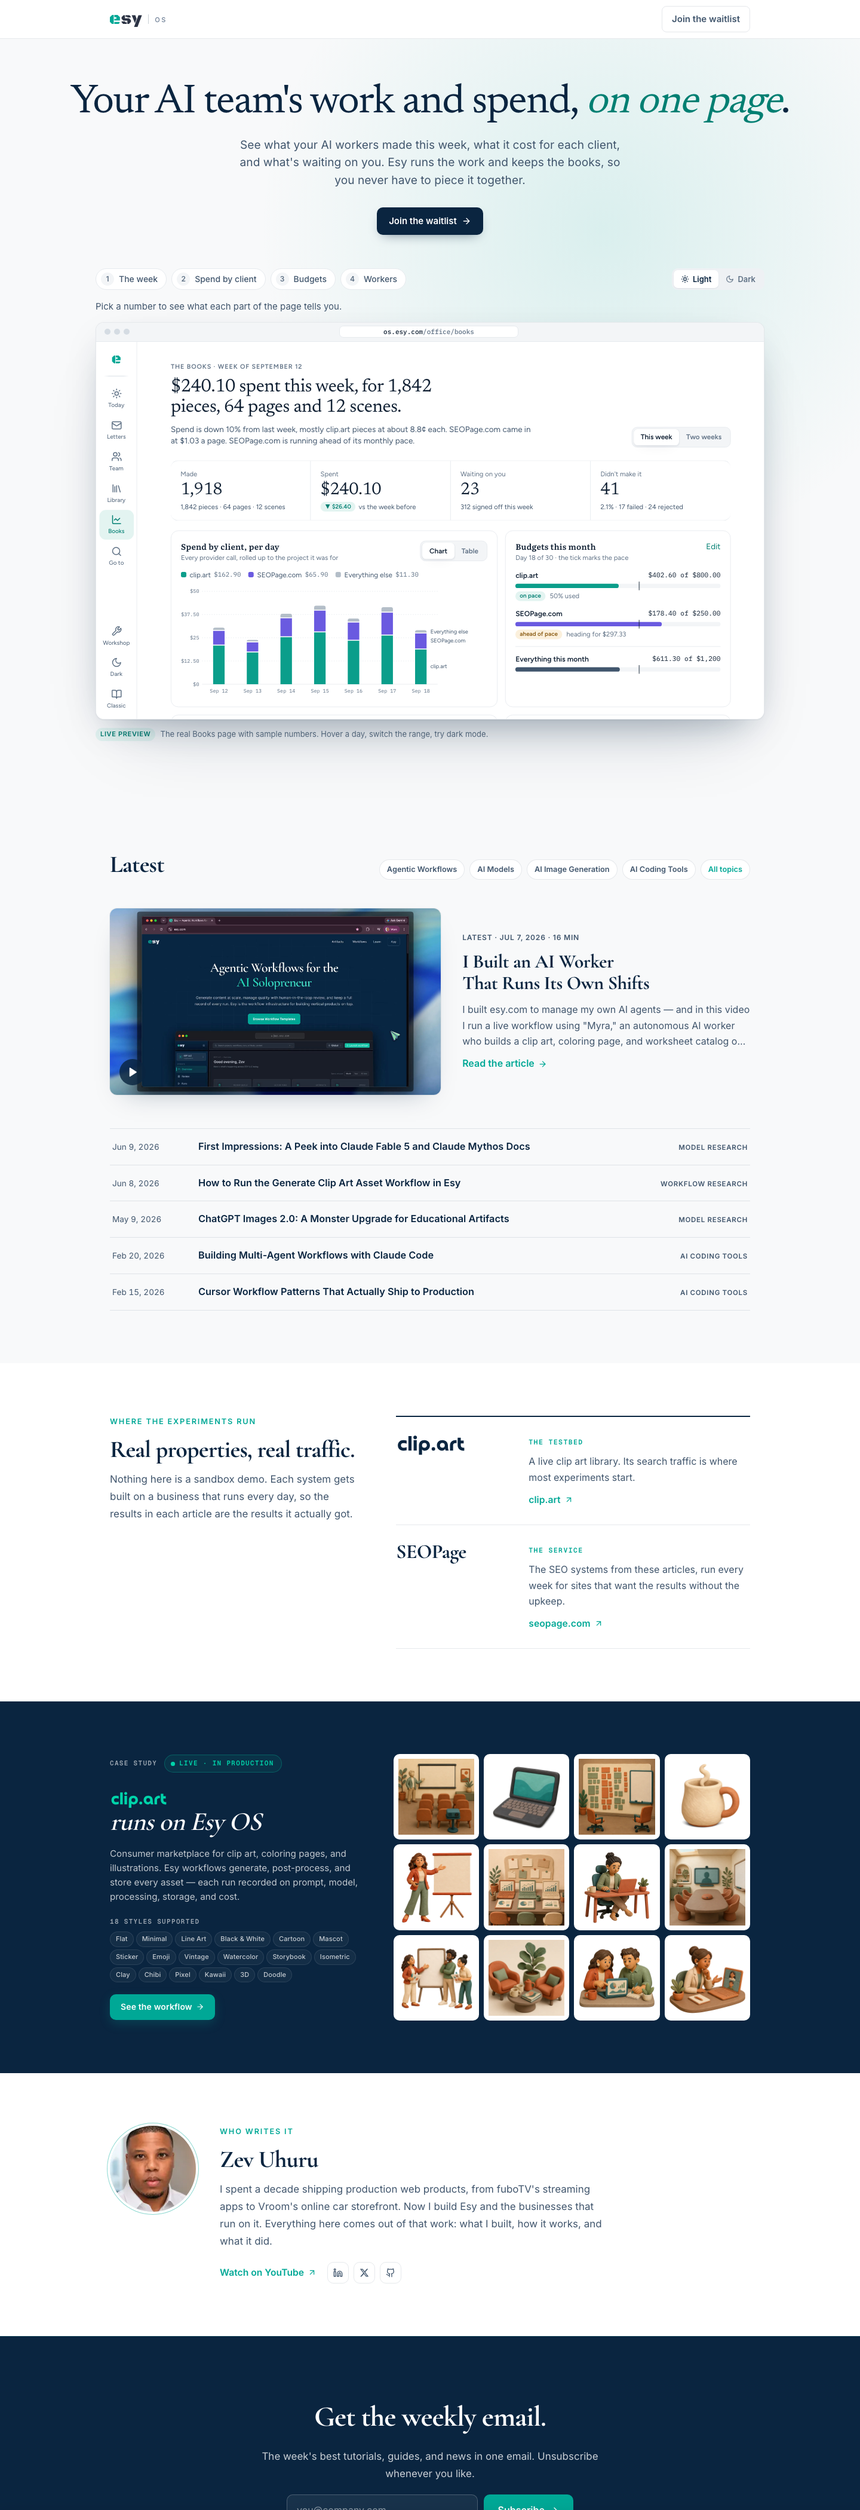
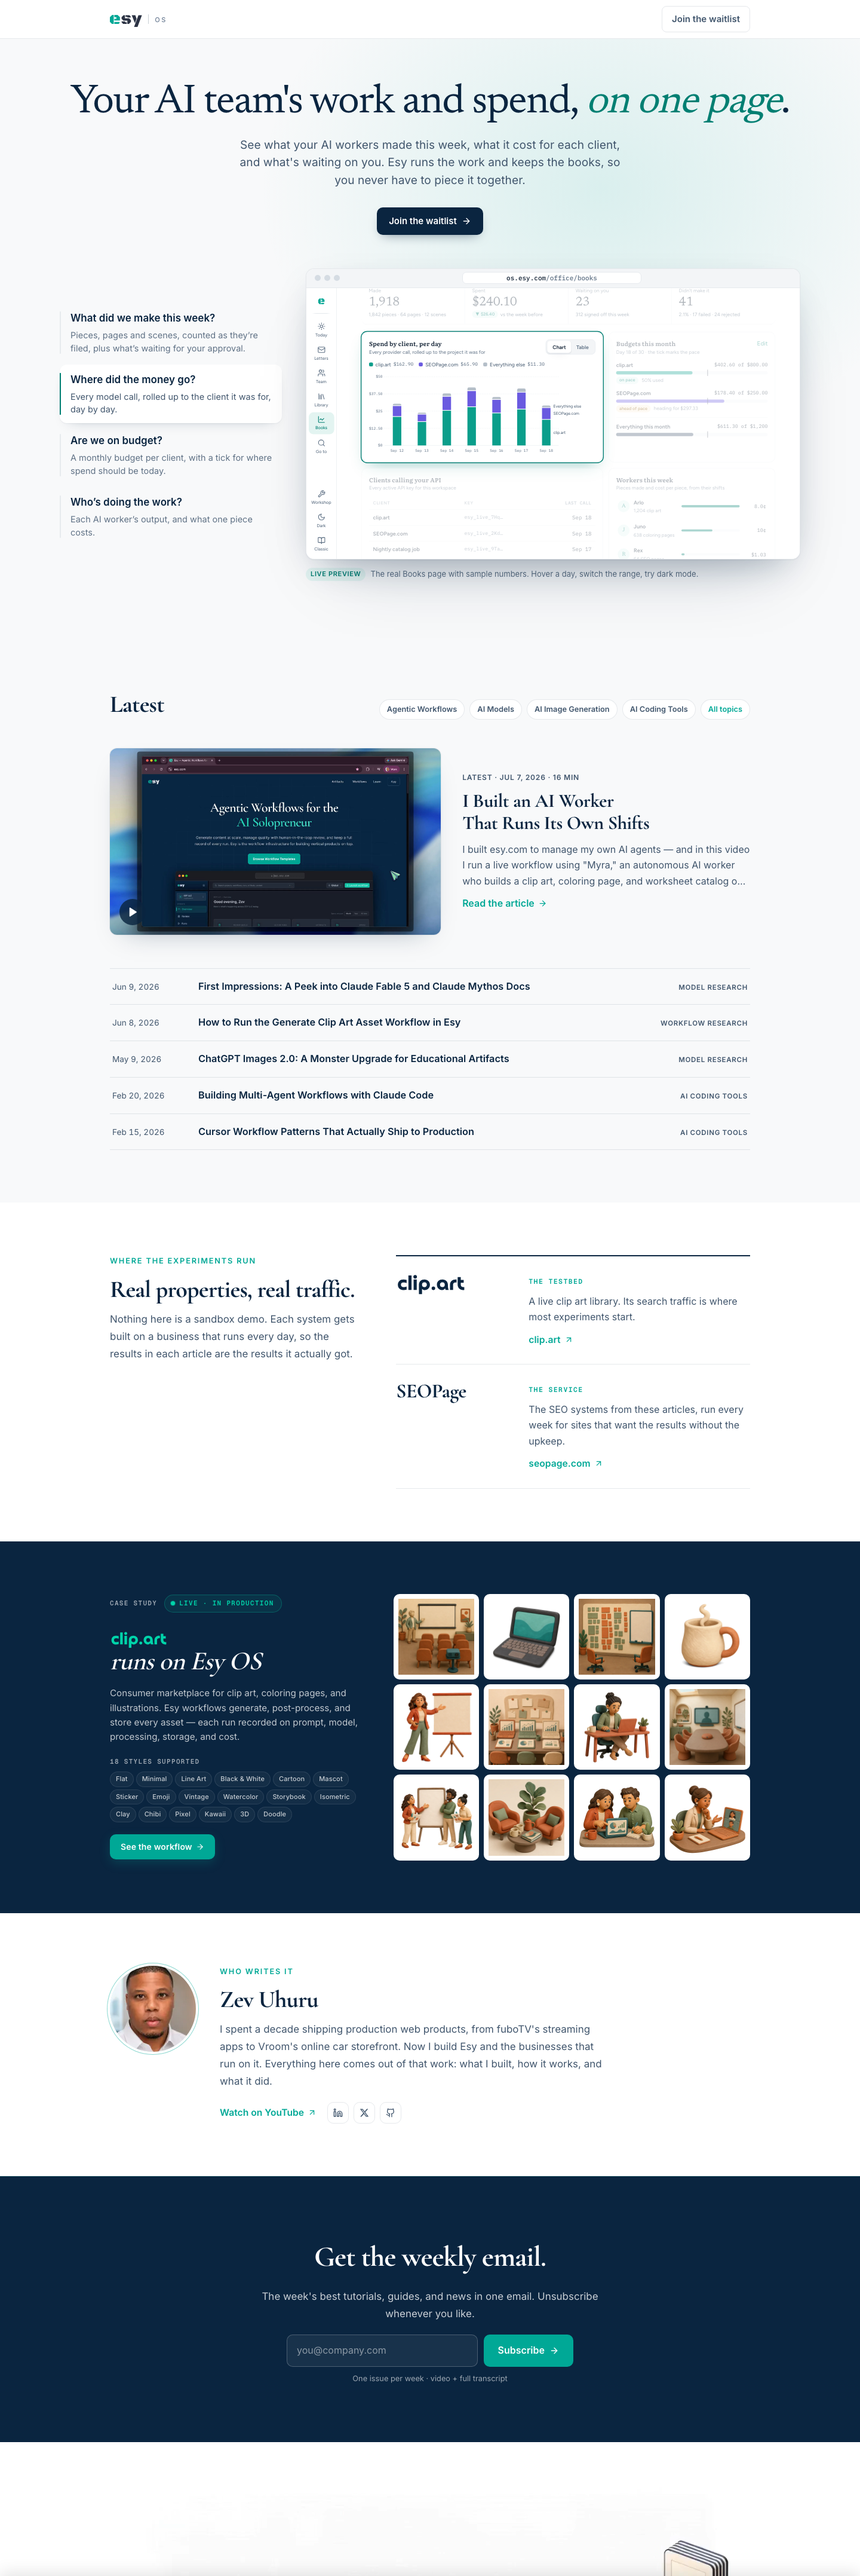
feat: hero E (Stage Tour) goes live on the homepage
Swaps B for E on /, marks E live in the prototypes registry, and refreshes
the prototypes README and screenshots to match.

diff --git a/src/app/page.js b/src/app/page.js
@@ -1,10 +1,10 @@
 import NewsletterHomePage from "../components/NewsletterHome/NewsletterHomePage";
-import { HeroStage } from "../components/HomeHero";
+import { HeroStageTour } from "../components/HomeHero";
 
-// The homepage sells Esy OS (2026-09-18): hero B · Stage, a working copy of
-// the office's Books page under a plain promise. The other directions (Split,
-// Tour) are components in src/components/HomeHero and stay clickable at
-// /prototypes/.
+// The homepage sells Esy OS (2026-09-18): hero E · Stage Tour, B's centred
+// promise over C's questions, each lighting its answer in a working copy of
+// the office's Books page. The other directions are components in
+// src/components/HomeHero and stay clickable at /prototypes/.
 //
 // Earlier homepages:
 // - The Marketing Engineer front page (2026-09-13 → 09-18) now lives at
@@ -55,5 +55,5 @@ export const metadata = {
 export const revalidate = 3600;
 
 export default function HomePage() {
-  return <NewsletterHomePage hero={<HeroStage />} />;
+  return <NewsletterHomePage hero={<HeroStageTour />} />;
 }

diff --git a/src/components/HomeHero/HeroStage.tsx b/src/components/HomeHero/HeroStage.tsx
@@ -1,6 +1,7 @@
 'use client';
 
-/* Hero B · Stage — the live homepage hero (2026-09-18).
+/* Hero B · Stage — briefly the live homepage hero (2026-09-18), before
+ * E · Stage Tour replaced it.
  *
  * Centred promise over a full-width Books window. Numbered chips light the
  * part of the page they name and say, in one line, what it tells you; a

diff --git a/docs/prototypes/README.md b/docs/prototypes/README.md
@@ -2,7 +2,7 @@
 
 Clickable directions we compare by using them, not by looking at mockups. They live at **esy.com/prototypes/** (noindex, kept out of the sitemap) and stay there after a pick, so the next prototype starts from a working example.
 
-**The reference build is the homepage hero (2026-09-18):** three directions for selling Esy OS, each built around a working copy of the office's Books page. Hero B · Stage shipped as the homepage. If you're building a new prototype, read that one first.
+**The reference build is the homepage hero (2026-09-18):** three directions for selling Esy OS (A · Split, B · Stage, C · Tour), each built around a working copy of the office's Books page. Then came a second round that merged the parts Zev liked: D · Split Tour (A's headline, C's flow) and E · Stage Tour (B's centred top, C's side-by-side flow under it). **E shipped as the homepage.** If you're building a new prototype, read that one first.
 
 ## The pattern
 
@@ -14,6 +14,7 @@ Clickable directions we compare by using them, not by looking at mockups. They l
 4. **Make it interactive in small ways.** Keep the product's own controls working: toggles, hover tooltips, theme switch. Anything outside the prototype answers with a one-line note instead of doing nothing. Expose a small set of hooks for the page around it, e.g. `focus` (light one part and dim the rest, scrolling it into view) and `onInteract` (stop an autoplay).
 5. **Write several directions, each as its own component.** Each direction is its own component file with shared pieces factored out. They all use the same preview, so the comparison is about layout and copy, not about which one got the better screenshot.
    - Reference: `src/components/HomeHero/`, with `HeroSplit.tsx`, `HeroStage.tsx`, `HeroTour.tsx` and `shared.tsx`.
+   - **Expect a merge round.** The pick is often "this part of A with that part of C". Keep each direction's moving parts as shared pieces (the Tour's questions, timer and step list live in `tour.tsx`) so a merge is a new small component, not a copy. `HeroSplitTour.tsx` and `HeroStageTour.tsx` are the merges.
 6. **Copy says what the product does, in the customer's words.** No riddles, and no engine vocabulary (workflow, run, gate, provider). Each hero answers: what is it, what does it show you, what do I click.
 7. **Show each direction in the real site chrome**, with the real header and footer, at `/prototypes/<prototype>/<variant>/`. A floating switcher moves between variants.
 
@@ -27,7 +28,7 @@ Clickable directions we compare by using them, not by looking at mockups. They l
 
 ## Screenshots
 
-`docs/prototypes/screenshots/` holds the hero build as it shipped: `home-hero-stage.png` (live), `hero-a-split.png`, `hero-c-tour.png`, `home-full.png`, `prototypes-index.png`, and `engineer.png` (where the old newsletter hero went). Add pictures of a new prototype here when it's picked.
+`docs/prototypes/screenshots/` holds the hero build as it shipped: `home-hero.png` (E, live), `hero-a-split.png`, `hero-b-stage.png`, `hero-c-tour.png`, `hero-d-split-tour.png`, `home-full.png`, `prototypes-index.png`, and `engineer.png` (where the old newsletter hero went). Add pictures of a new prototype here when it's picked.
 
 ## Files
 
@@ -36,4 +37,4 @@ Clickable directions we compare by using them, not by looking at mockups. They l
 | `src/app/prototypes/` | Routes: the index, one folder per prototype. The layout sets noindex. |
 | `src/components/prototypes/` | Registry, floating switcher, index styles. |
 | `src/components/OfficePreview/` | The working Books window: copied office CSS, sample data, the scaled frame. Reusable for any os.esy.com surface. |
-| `src/components/HomeHero/` | The three hero directions. Stage is live on `/`. |
+| `src/components/HomeHero/` | The five hero directions. Stage Tour (E) is live on `/`. |
